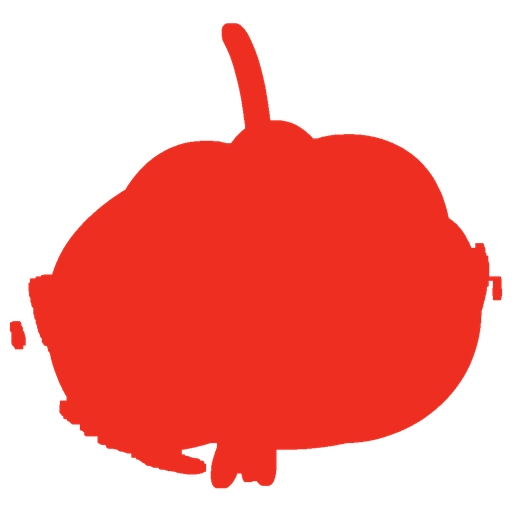
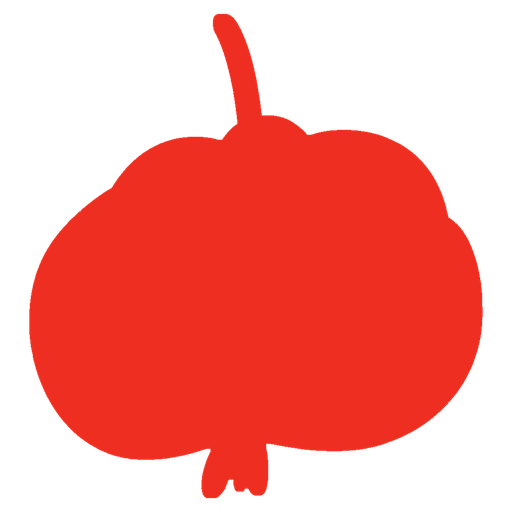
Clean price pitanga marker

diff --git a/styles.css b/styles.css
@@ -560,7 +560,7 @@ h1 {
   position: absolute;
   inset: -12px -14px -10px;
   z-index: -1;
-  background: url("assets/price-pitanga.png") center / contain no-repeat;
+  background: url("assets/price-pitanga.png?v=clean") center / contain no-repeat;
   transform: rotate(-2deg);
 }
 